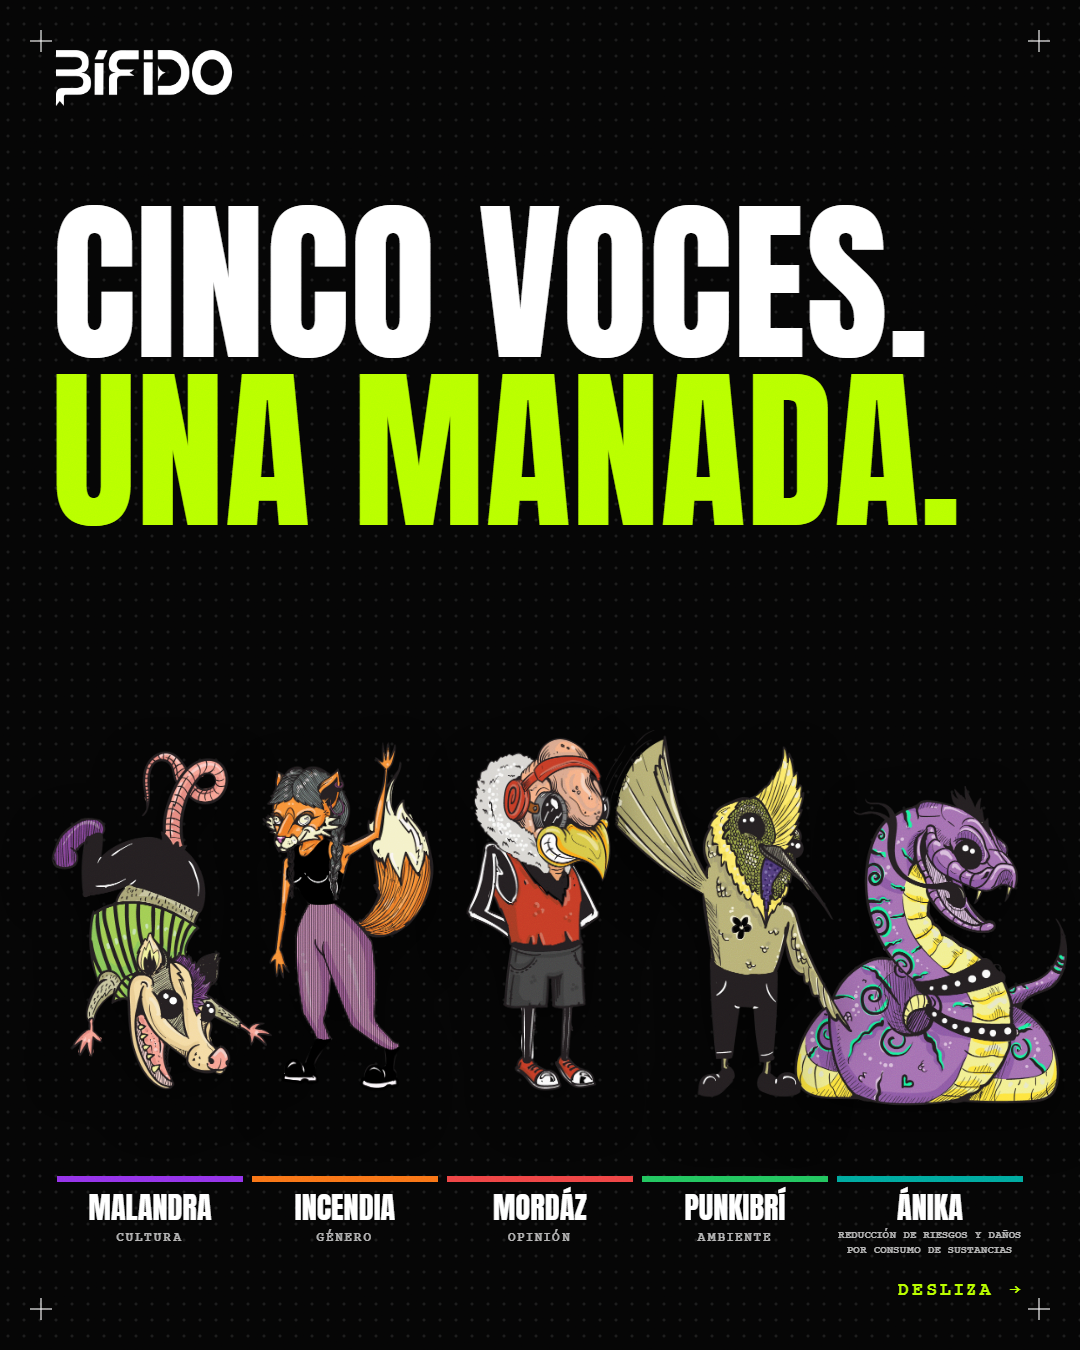
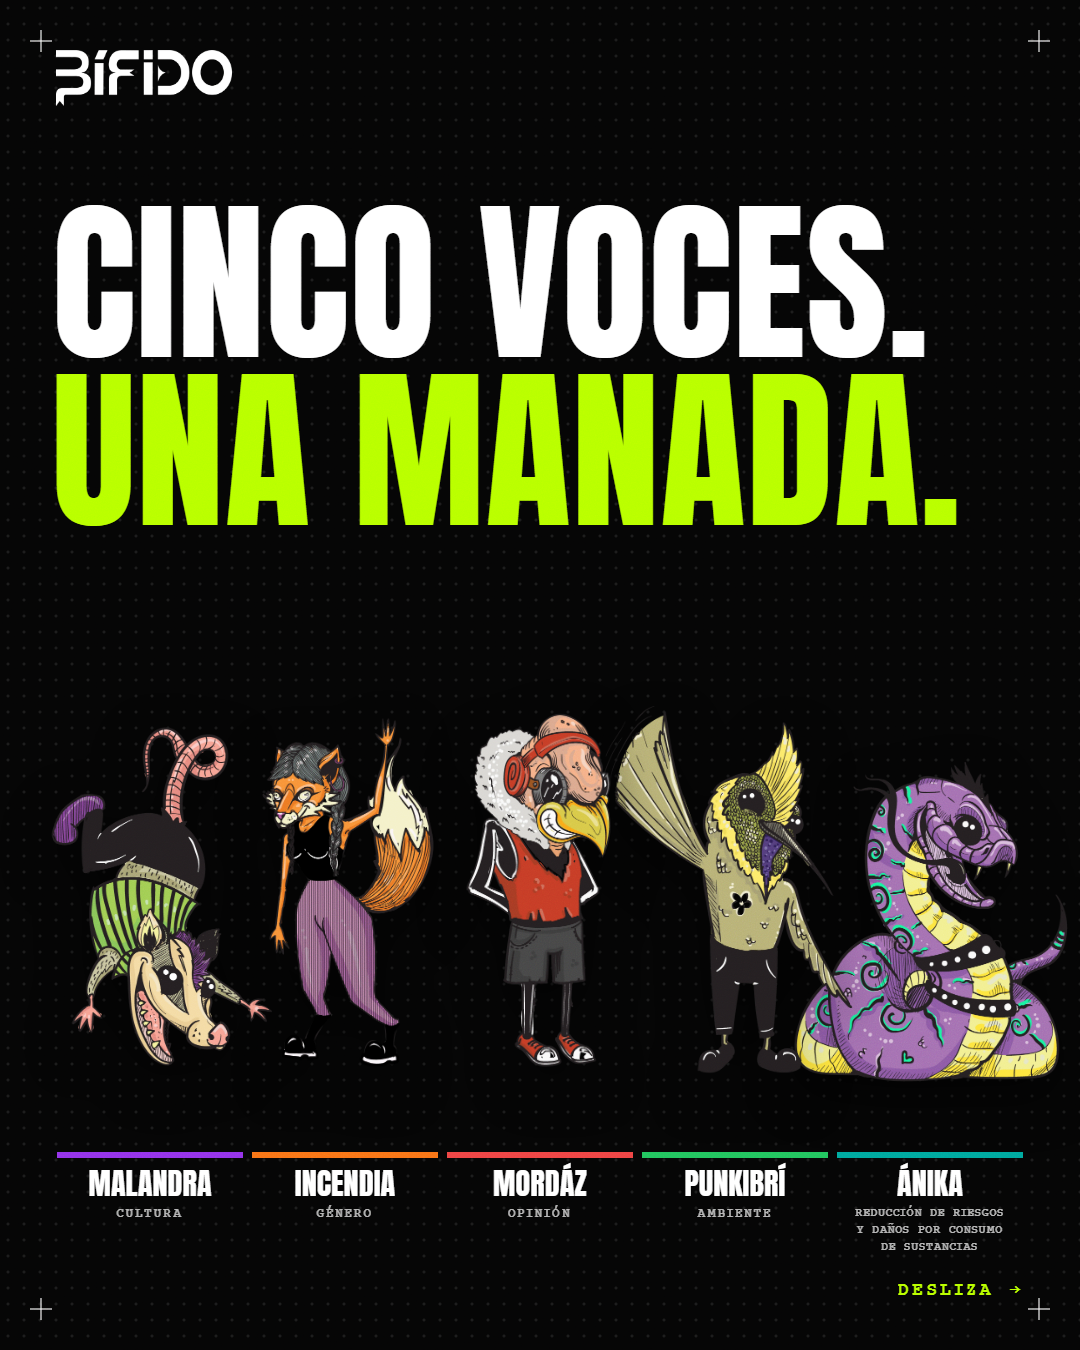
feat: implement ArticleClient, EventClient, and public pages with analytics and cookie consent

Changed region(s): [[0.0611, 0.5289, 1.0, 0.9333], [0.0306, 0.5289, 0.2444, 0.8089], [0.2444, 0.5289, 0.3972, 0.8089]]

diff --git a/app/(website)/privacidad/page.tsx b/app/(website)/privacidad/page.tsx
@@ -1,0 +1,65 @@
+import type { Metadata } from 'next';
+import Link from 'next/link';
+import { pageMetadata } from '@/lib/seo';
+
+export const metadata: Metadata = pageMetadata({
+  title: 'Política de privacidad y cookies',
+  description: 'Qué datos recoge Revista Bífido, para qué los usa, qué cookies emplea y cómo puedes ejercer tus derechos.',
+  path: '/privacidad',
+});
+
+const H2 = 'font-display text-3xl text-white mt-12 mb-4';
+const P = 'text-base text-gray-300 leading-relaxed mb-4';
+const LI = 'text-base text-gray-300 leading-relaxed';
+
+export default function PrivacidadPage() {
+  return (
+    <div className="container mx-auto px-6 sm:px-10 lg:px-16 pt-36 pb-20 max-w-3xl">
+      <p className="font-mono text-xs uppercase tracking-[0.2em] text-bifido-neon mb-3">Última actualización: 10 de noviembre de 2026</p>
+      <h1 className="font-display text-5xl md:text-6xl uppercase leading-[0.95] mb-8">Política de privacidad y cookies</h1>
+
+      <p className={P}>
+        En Revista Bífido (<strong>revistabifido.com</strong>) cuidamos tus datos igual que cuidamos las historias que contamos.
+        Esta página explica, en lenguaje claro, qué información recogemos, para qué y cómo puedes controlarla.
+      </p>
+
+      <h2 className={H2}>Qué datos recogemos</h2>
+      <p className={P}>
+        No tenemos cuentas de usuario ni formularios que pidan datos personales en el sitio. Lo único que medimos, y solo si
+        lo aceptas, es el uso general de la web mediante <strong>Google Analytics</strong>: páginas visitadas, tiempo de lectura,
+        tipo de dispositivo y navegador, y ubicación aproximada (ciudad o país). No usamos esa información para identificarte.
+      </p>
+
+      <h2 className={H2}>Cookies que usamos</h2>
+      <ul className="list-disc pl-6 space-y-2 mb-4">
+        <li className={LI}><strong>Necesarias:</strong> guardan tu elección sobre las cookies (en el almacenamiento de tu navegador). Sin ellas no podríamos recordarla.</li>
+        <li className={LI}><strong>Analítica (Google Analytics, cookies <code>_ga</code> y <code>_ga_*</code>):</strong> solo se activan si pulsas «Aceptar». Sirven para entender qué se lee y mejorar la revista.</li>
+        <li className={LI}><strong>Publicidad:</strong> no usamos cookies de publicidad ni de seguimiento entre sitios.</li>
+      </ul>
+      <p className={P}>
+        Puedes cambiar tu decisión en cualquier momento con el enlace <strong>«Cookies»</strong> del pie de página, o borrando
+        los datos del sitio desde la configuración de tu navegador.
+      </p>
+
+      <h2 className={H2}>Terceros</h2>
+      <p className={P}>
+        Si aceptas la analítica, Google (Google Analytics y Google Tag Manager) procesa los datos de uso en sus servidores,
+        que pueden estar fuera de Colombia. El sitio también puede mostrar contenido incrustado de terceros (por ejemplo,
+        videos o publicaciones de redes sociales), que pueden aplicar sus propias políticas.
+      </p>
+
+      <h2 className={H2}>Tus derechos</h2>
+      <p className={P}>
+        De acuerdo con la Ley 1581 de 2012 (protección de datos personales en Colombia) puedes conocer, actualizar, rectificar y
+        solicitar la supresión de tus datos, así como revocar la autorización que nos hayas dado. Para ejercer estos derechos,
+        escríbenos desde la página de <Link href="/contactanos" className="underline underline-offset-2 text-bifido-neon hover:text-white">Contáctanos</Link>.
+      </p>
+
+      <h2 className={H2}>Cambios en esta política</h2>
+      <p className={P}>
+        Si algo cambia (por ejemplo, si añadimos otra herramienta de medición), actualizaremos esta página y volveremos a
+        pedirte tu consentimiento cuando sea necesario.
+      </p>
+    </div>
+  );
+}

diff --git a/components/AnalyticsEvents.tsx b/components/AnalyticsEvents.tsx
@@ -1,0 +1,58 @@
+'use client';
+
+import { useEffect } from 'react';
+import { track } from '@/lib/analytics';
+
+const SOCIAL: Array<[RegExp, string]> = [
+  [/facebook\.com|fb\.com/i, 'facebook'],
+  [/instagram\.com/i, 'instagram'],
+  [/youtube\.com|youtu\.be/i, 'youtube'],
+  [/wa\.me|whatsapp\.com/i, 'whatsapp'],
+  [/tiktok\.com/i, 'tiktok'],
+  [/(^|\/\/)(www\.)?(x|twitter)\.com/i, 'x'],
+  [/spotify\.com/i, 'spotify'],
+];
+const CHARACTER_PATH = /^\/(malandra|incendia|mordaz|punkibri|anika)(\/|$)/;
+
+/**
+ * Eventos de clic por delegación (un solo listener para todo el sitio):
+ *  - [data-track="nombre_evento"] (+ data-track-label): cualquier botón/enlace que queramos medir.
+ *  - Redes sociales  -> social_click   { network }
+ *  - mailto / tel    -> contact_click  { method }
+ *  - Páginas de personaje -> character_click { character }
+ * Los clics de salida, descargas y desplazamientos ya los mide la "medición mejorada" de GA4.
+ */
+export default function AnalyticsEvents() {
+  useEffect(() => {
+    const onClick = (e: MouseEvent) => {
+      const target = e.target as Element | null;
+      if (!target?.closest) return;
+
+      const tagged = target.closest<HTMLElement>('[data-track]');
+      if (tagged) {
+        track(tagged.dataset.track as string, { label: tagged.dataset.trackLabel, page: location.pathname });
+        return;
+      }
+
+      const a = target.closest<HTMLAnchorElement>('a[href]');
+      if (!a) return;
+      const href = a.getAttribute('href') || '';
+
+      if (href.startsWith('mailto:')) return track('contact_click', { method: 'email', page: location.pathname });
+      if (href.startsWith('tel:')) return track('contact_click', { method: 'phone', page: location.pathname });
+
+      const social = SOCIAL.find(([re]) => re.test(href));
+      if (social) return track('social_click', { network: social[1], link_url: href, page: location.pathname });
+
+      // Enlaces internos a las landings / páginas de personaje
+      const internal = href.startsWith('/') || a.host === location.host;
+      const m = internal ? (href.startsWith('/') ? href : a.pathname).match(CHARACTER_PATH) : null;
+      if (m) track('character_click', { character: m[1], link_url: href, page: location.pathname });
+    };
+
+    document.addEventListener('click', onClick, { capture: true });
+    return () => document.removeEventListener('click', onClick, { capture: true });
+  }, []);
+
+  return null;
+}

diff --git a/components/CookieConsent.tsx b/components/CookieConsent.tsx
@@ -1,0 +1,59 @@
+'use client';
+
+import { useEffect, useState } from 'react';
+import Link from 'next/link';
+import { getStoredConsent, setConsent, OPEN_CONSENT_EVENT, type ConsentChoice } from '@/lib/analytics';
+
+/**
+ * Aviso de cookies. Por defecto la analítica está DENEGADA (Consent Mode v2, ver GoogleTagManager.tsx);
+ * solo se activa si la persona acepta. La elección se recuerda y se puede cambiar desde el pie de página.
+ */
+export default function CookieConsent() {
+  const [open, setOpen] = useState(false);
+
+  useEffect(() => {
+    if (getStoredConsent() === null) setOpen(true);
+    const reopen = () => setOpen(true);
+    window.addEventListener(OPEN_CONSENT_EVENT, reopen);
+    return () => window.removeEventListener(OPEN_CONSENT_EVENT, reopen);
+  }, []);
+
+  if (!open) return null;
+
+  const choose = (choice: ConsentChoice) => {
+    setConsent(choice);
+    setOpen(false);
+  };
+
+  return (
+    <div
+      role="dialog"
+      aria-live="polite"
+      aria-label="Aviso de cookies"
+      className="fixed inset-x-3 bottom-3 sm:inset-x-auto sm:right-5 sm:bottom-5 sm:max-w-md z-[10000] bg-black border border-bifido-neon/60 rounded-2xl p-5 shadow-[0_10px_40px_rgba(0,0,0,0.7)]"
+    >
+      <p className="font-display text-xl text-white mb-2">Cookies</p>
+      <p className="text-sm text-gray-300 leading-relaxed mb-4">
+        Usamos cookies de analítica (Google Analytics) para entender cómo se lee la revista y mejorarla.
+        Solo se activan si las aceptas, y no usamos cookies de publicidad.{' '}
+        <Link href="/privacidad" className="underline underline-offset-2 text-bifido-neon hover:text-white">
+          Más información
+        </Link>
+      </p>
+      <div className="flex gap-3">
+        <button
+          onClick={() => choose('granted')}
+          className="flex-1 bg-bifido-neon text-black font-mono text-xs font-bold uppercase tracking-widest py-3 rounded-full hover:bg-white transition-colors"
+        >
+          Aceptar
+        </button>
+        <button
+          onClick={() => choose('denied')}
+          className="flex-1 border border-white/40 text-white font-mono text-xs font-bold uppercase tracking-widest py-3 rounded-full hover:bg-white/10 transition-colors"
+        >
+          Rechazar
+        </button>
+      </div>
+    </div>
+  );
+}

diff --git a/components/GoogleTagManager.tsx b/components/GoogleTagManager.tsx
@@ -1,19 +1,27 @@
 import Script from 'next/script';
+import { CONSENT_KEY } from '@/lib/analytics';
 
 /**
- * Google Tag Manager (contenedor que gestiona Google Analytics 4).
+ * Google Tag Manager (contenedor que gestiona Google Analytics 4) con Consent Mode v2.
  * - El ID se toma de NEXT_PUBLIC_GTM_ID (con el contenedor de Revista Bífido como valor por defecto).
  * - Solo se carga en producción, para no contaminar las estadísticas con visitas de desarrollo.
  * - Vive en el layout del sitio público, así que el panel /admin de Payload no se mide.
+ * - Consent Mode: antes de cargar GTM todo el almacenamiento queda DENEGADO; si la persona ya había
+ *   aceptado en una visita anterior, solo se reactiva la analítica. El banner (CookieConsent) actualiza el estado.
  */
 const GTM_ID = process.env.NEXT_PUBLIC_GTM_ID ?? 'GTM-M664QSXP';
 const ENABLED = process.env.NODE_ENV === 'production' && Boolean(GTM_ID);
+
+const consentBootstrap = `window.dataLayer=window.dataLayer||[];function gtag(){dataLayer.push(arguments);}
+gtag('consent','default',{ad_storage:'denied',ad_user_data:'denied',ad_personalization:'denied',analytics_storage:'denied',functionality_storage:'granted',security_storage:'granted',wait_for_update:500});
+try{if(localStorage.getItem('${CONSENT_KEY}')==='granted'){gtag('consent','update',{analytics_storage:'granted'});}}catch(e){}`;
 
 export function GtmScript() {
   if (!ENABLED) return null;
   return (
     <Script id="gtm-init" strategy="afterInteractive">
-      {`(function(w,d,s,l,i){w[l]=w[l]||[];w[l].push({'gtm.start':new Date().getTime(),event:'gtm.js'});var f=d.getElementsByTagName(s)[0],j=d.createElement(s),dl=l!='dataLayer'?'&l='+l:'';j.async=true;j.src='https://www.googletagmanager.com/gtm.js?id='+i+dl;f.parentNode.insertBefore(j,f);})(window,document,'script','dataLayer','${GTM_ID}');`}
+      {`${consentBootstrap}
+(function(w,d,s,l,i){w[l]=w[l]||[];w[l].push({'gtm.start':new Date().getTime(),event:'gtm.js'});var f=d.getElementsByTagName(s)[0],j=d.createElement(s),dl=l!='dataLayer'?'&l='+l:'';j.async=true;j.src='https://www.googletagmanager.com/gtm.js?id='+i+dl;f.parentNode.insertBefore(j,f);})(window,document,'script','dataLayer','${GTM_ID}');`}
     </Script>
   );
 }

diff --git a/marketing/instagram-lanzamiento/fuente/build.js b/marketing/instagram-lanzamiento/fuente/build.js
@@ -82,7 +82,7 @@ const chars = [
   ['incendia', 'Incendia', 'Género', '#f97316', 1],
   ['mordaz', 'Mordáz', 'Opinión', '#ef4444', 2],
   ['punkibri', 'Punkibrí', 'Ambiente', '#22c55e', 3],
-  ['anika', 'Ánika', 'Reducción de riesgos y daños por consumo de sustancias', '#00a89e', 4],
+  ['anika', 'Ánika', 'Reducción de riesgos|y daños por consumo|de sustancias', '#00a89e', 4],
 ];
 const CX = [150, 345, 540, 735, 930];
 const heights = [470, 490, 530, 490, 470];
@@ -92,14 +92,14 @@ slides[3] = page(`
 ${chars.map(([id, name, topic, col, i]) => {
   const h = heights[i], w = Math.round(h * .8);
   const cx = CX[i];
-  return `<img class="abs" src="assets/${id}.webp" style="left:${Math.round(cx - w / 2)}px;top:${1160 - h}px;height:${h}px;z-index:${i === 2 ? 30 : 20 + (i % 2)};filter:drop-shadow(0 18px 24px rgba(0,0,0,.6))">`;
+  return `<img class="abs" src="assets/${id}.webp" style="left:${Math.round(cx - w / 2)}px;top:${1136 - h}px;height:${h}px;z-index:${i === 2 ? 30 : 20 + (i % 2)};filter:drop-shadow(0 18px 24px rgba(0,0,0,.6))">`;
 }).join('')}
 ${chars.map(([id, name, topic, col, i]) => {
   const cx = CX[i];
-  return `<div class="abs" style="left:${Math.round(cx - 93)}px;top:1176px;width:186px;z-index:45;text-align:center">
+  return `<div class="abs" style="left:${Math.round(cx - 93)}px;top:1152px;width:186px;z-index:45;text-align:center">
     <div style="height:6px;background:${col};margin-bottom:11px"></div>
     <div class="d" style="font-size:30px;line-height:1">${name}</div>
-    <div class="mono" style="font-size:${topic.length > 14 ? 11 : 13}px;letter-spacing:${topic.length > 14 ? .04 : .16}em;line-height:1.35;color:rgba(255,255,255,.7);margin-top:5px">${topic}</div></div>`;
+    <div class="mono" style="font-size:${topic.includes('|') ? 12 : 13}px;letter-spacing:${topic.includes('|') ? .07 : .16}em;line-height:1.4;color:rgba(255,255,255,.7);margin-top:5px">${topic.split('|').join('<br>')}</div></div>`;
 }).join('')}
 ${HUD(3, { hideFoot: true })}`);
 

diff --git a/lib/analytics.ts b/lib/analytics.ts
@@ -1,0 +1,47 @@
+/** Utilidades de analítica (Google Tag Manager / GA4 + Consent Mode v2). Todo es seguro en el servidor y sin GTM. */
+
+declare global {
+  interface Window {
+    dataLayer?: unknown[];
+  }
+}
+
+export const CONSENT_KEY = 'bifido-consent-v1';
+export const OPEN_CONSENT_EVENT = 'bifido:open-consent';
+
+export type ConsentChoice = 'granted' | 'denied';
+
+/** gtag() necesita recibir el objeto `arguments` (no un array) para que GTM lo interprete. */
+export function gtag(..._args: unknown[]): void {
+  if (typeof window === 'undefined') return;
+  window.dataLayer = window.dataLayer || [];
+  // eslint-disable-next-line prefer-rest-params
+  window.dataLayer.push(arguments);
+}
+
+/** Registra un evento personalizado en el dataLayer (GA4 lo recoge desde GTM). */
+export function track(event: string, params: Record<string, unknown> = {}): void {
+  if (typeof window === 'undefined') return;
+  window.dataLayer = window.dataLayer || [];
+  window.dataLayer.push({ event, ...params });
+}
+
+export function getStoredConsent(): ConsentChoice | null {
+  try {
+    const v = window.localStorage.getItem(CONSENT_KEY);
+    return v === 'granted' || v === 'denied' ? v : null;
+  } catch {
+    return null;
+  }
+}
+
+/** Guarda la elección y actualiza Consent Mode. Solo la analítica puede activarse: nunca publicidad. */
+export function setConsent(choice: ConsentChoice): void {
+  try { window.localStorage.setItem(CONSENT_KEY, choice); } catch { /* sin almacenamiento */ }
+  gtag('consent', 'update', {
+    analytics_storage: choice,
+    ad_storage: 'denied',
+    ad_user_data: 'denied',
+    ad_personalization: 'denied',
+  });
+}

diff --git a/components/Footer.tsx b/components/Footer.tsx
@@ -4,6 +4,7 @@ import Link from 'next/link';
 import Image from 'next/image';
 import { characters } from '@/lib/characters';
 import { getCharacterColors } from '@/lib/character-colors';
+import { OPEN_CONSENT_EVENT } from '@/lib/analytics';
 import { RiFacebookFill, RiWhatsappFill, RiInstagramFill, RiYoutubeFill } from "react-icons/ri";
 
 export default function Footer() {
@@ -125,6 +126,11 @@ export default function Footer() {
         <div className="text-center">
           <p className="text-gray-400 text-xs font-jack tracking-[0.2em] font-semibold uppercase">
             © {new Date().getFullYear()} Revista Bífido. <br className="md:hidden" /> Todos los derechos reservados.
+          </p>
+          <p className="mt-3 flex items-center justify-center gap-4 text-gray-400 text-xs font-jack tracking-[0.15em] uppercase">
+            <Link href="/privacidad" className="hover:text-bifido-neon transition-colors">Privacidad</Link>
+            <span aria-hidden="true">·</span>
+            <button type="button" onClick={() => window.dispatchEvent(new Event(OPEN_CONSENT_EVENT))} className="uppercase hover:text-bifido-neon transition-colors">Cookies</button>
           </p>
         </div>
 

diff --git a/app/(website)/layout.tsx b/app/(website)/layout.tsx
@@ -8,6 +8,8 @@ import Footer from '@/components/Footer';
 import ScrollToTop from '@/components/ScrollToTop';
 import JsonLd from '@/components/JsonLd';
 import { GtmScript, GtmNoScript } from '@/components/GoogleTagManager';
+import CookieConsent from '@/components/CookieConsent';
+import AnalyticsEvents from '@/components/AnalyticsEvents';
 import { SITE_URL, SITE_NAME, SITE_TAGLINE, SITE_DESCRIPTION, SOCIAL_PROFILES, DEFAULT_OG_IMAGE } from '@/lib/seo';
 // import BackToHome from '@/components/BackToHome';
 
@@ -97,6 +99,8 @@ export default function RootLayout({
         </main>
         <Footer />
         <ScrollToTop />
+        <CookieConsent />
+        <AnalyticsEvents />
         {/* <BackToHome /> */}
       </body>
     </html>

diff --git a/app/(website)/[slug]/articulos/[article]/ArticleClient.tsx b/app/(website)/[slug]/articulos/[article]/ArticleClient.tsx
@@ -817,6 +817,8 @@ export default function ArticleClient({ article, character }: ArticleClientProps
                             onClick={() => navigator.share?.({ title: article.title, text: article.excerpt, url: shareUrl })}
                             className="flex items-center gap-2 px-6 py-3 rounded-full bg-white/5 hover:bg-white/10 text-white transition-colors border border-white/10 font-mono text-xs font-bold uppercase tracking-widest"
                             aria-label="Compartir"
+                            data-track="share_click"
+                            data-track-label={article.title}
                         >
                             <Share2 size={16} />
                             Compartir

diff --git a/app/(website)/eventos/[slug]/EventClient.tsx b/app/(website)/eventos/[slug]/EventClient.tsx
@@ -862,6 +862,8 @@ export default function EventClient({ event }: EventClientProps) {
                             {event.ticketLink && (
                                 <a
                                     href={event.ticketLink}
+                                    data-track="ticket_click"
+                                    data-track-label={event.name}
                                     target="_blank"
                                     rel="noopener noreferrer"
                                     className="bg-white text-black font-mono text-xs font-bold px-8 py-3 uppercase tracking-widest hover:bg-bifido-neon transition-colors rounded-full"

diff --git a/app/sitemap.ts b/app/sitemap.ts
@@ -35,6 +35,7 @@ export default async function sitemap(): Promise<MetadataRoute.Sitemap> {
         { url: `${SITE_URL}/eventos`, changeFrequency: 'weekly', priority: 0.8 },
         { url: `${SITE_URL}/mercado`, changeFrequency: 'monthly', priority: 0.5 },
         { url: `${SITE_URL}/contactanos`, changeFrequency: 'yearly', priority: 0.4 },
+        { url: `${SITE_URL}/privacidad`, changeFrequency: 'yearly', priority: 0.2 },
     ];
 
     const characterPages: Entry[] = characters.flatMap((c) => [
